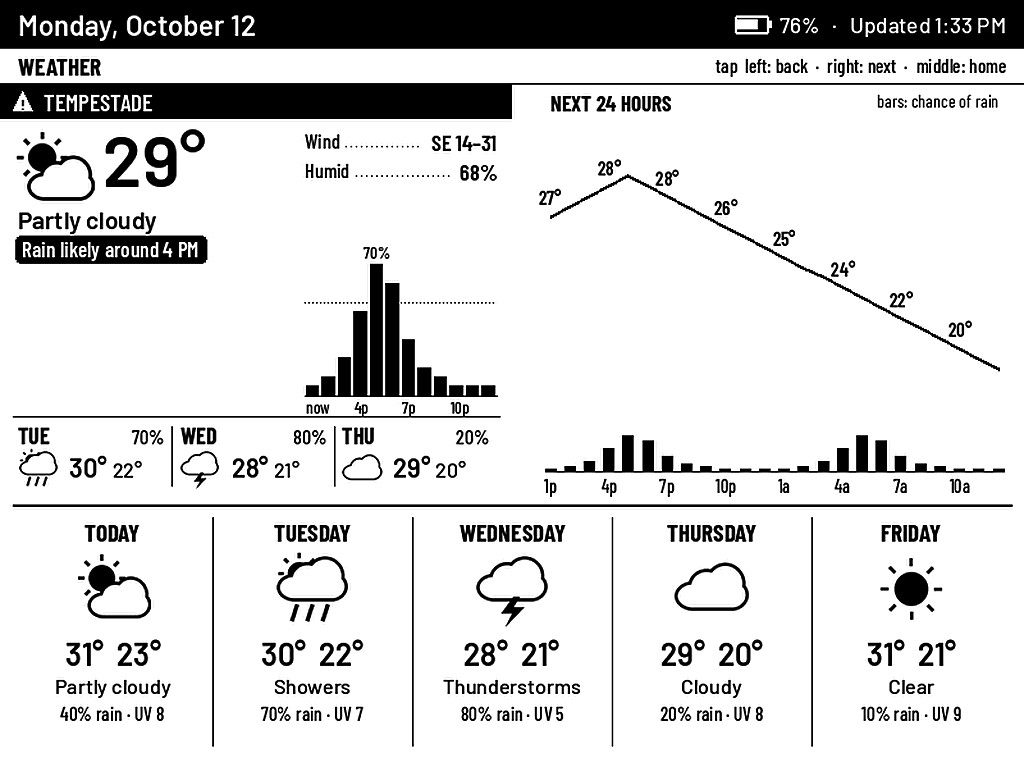
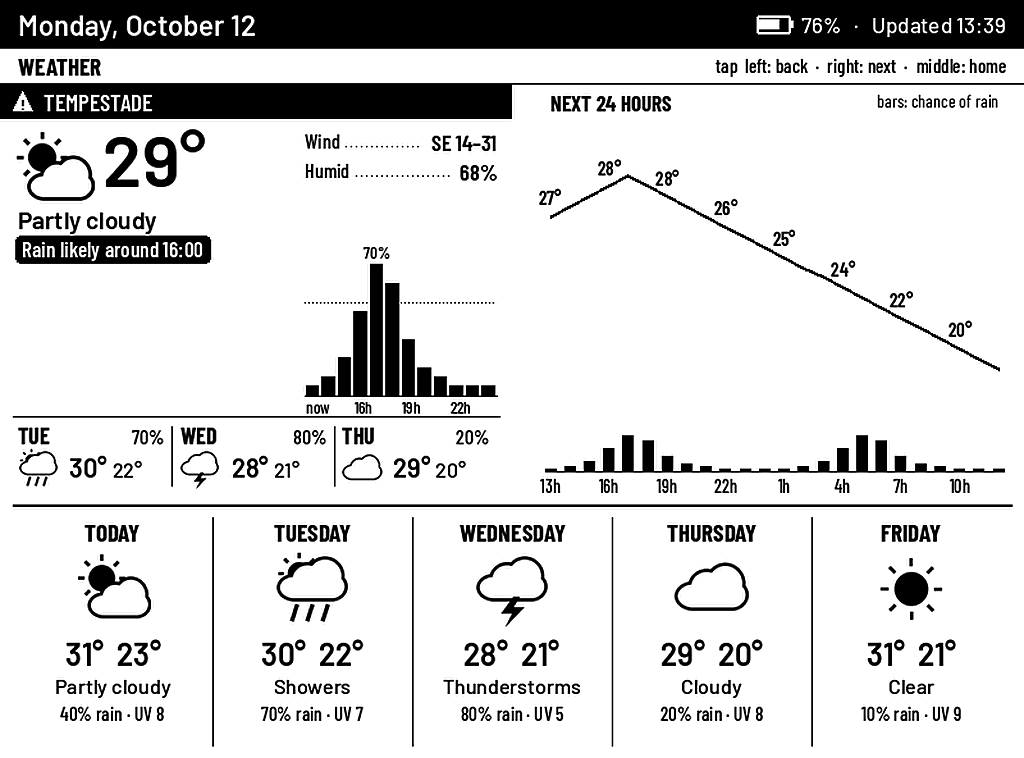
24-hour clock and Brasileirão teams (Bahia, São Paulo, live G4)
Clock
- New "clock" setting (24 | 12), default 24. One switch in sources
  (CLOCK24) drives every time on the board: header, game times, sunrise /
  sunset, rain-chart hour labels ("16h"), INMET alerts and the brief prompt.

Brasileirão
- Built-in teams "bahia" (ESPN 9967) and "sao_paulo" (2026) in league bra.1;
  default teams are now bahia, sao_paulo, g4.
- "g4" expands to the current top g4_size (default 4) of ESPN's live bra.1
  table, registering those clubs on the fly; a club already listed shows once.
- Soccer rows show table position and points ("4º · 61 pts"), draws as "D",
  and fetch both results and fixtures, plus Libertadores, Sul-Americana and
  Copa do Brasil games (labelled with the cup).
- ESPN calls for Brazilian / CONMEBOL soccer ask for lang=pt&region=br, so
  names and team news come from ESPN Brasil.
- Standings try site.api.espn.com then site.web.api.espn.com.

Claude-Session: https://claude.ai/code/session_01GVZJyjXu3HFDda6DCF8SeA

diff --git a/server/web/dashboard.html b/server/web/dashboard.html
@@ -127,6 +127,7 @@ td:first-child{font-weight:600;white-space:nowrap}
         <label>Label<input name="label"></label>
         <label>City (for the brief)<input name="city"></label>
         <label>Units<select name="units"><option value="C">°C, km/h</option><option value="F">°F, mph</option></select></label>
+        <label>Clock<select name="clock"><option value="24">24-hour (19:30)</option><option value="12">12-hour (7:30 PM)</option></select></label>
         <label>Weather alerts<select name="alerts"><option value="auto">Auto (by location)</option>
           <option value="inmet">INMET (Brazil)</option><option value="nws">NWS (US)</option><option value="off">Off</option></select></label>
         <label>IBGE city code (optional)<input name="alert_geocode" placeholder="3550308"></label>
@@ -159,6 +160,7 @@ td:first-child{font-weight:600;white-space:nowrap}
       <div class="checks" id="teams"></div>
       <div class="grid2">
         <label>Show next game if within (days)<input type="number" name="horizon_days" min="1" max="120"></label>
+        <label>Brasileirão "G4" size<input type="number" name="g4_size" min="1" max="8"></label>
       </div>
       <label class="inline" style="margin-top:8px"><input type="checkbox" name="show_idle"> Show teams with nothing scheduled</label>
       <label class="inline"><input type="checkbox" name="sports_logos"> Team logos</label>

diff --git a/server/sources.py b/server/sources.py
@@ -273,9 +273,8 @@ def _parse_inmet(d, lat, lon, geocode="", now=None):
             continue
         sev_pt = str(_pick(a, "severidade", "severity", "nivel") or "").strip()
         event = str(_pick(a, "descricao", "evento", "event", "titulo") or "Aviso").strip()
-        hm24 = lambda t: time.strftime("%H:%M", time.localtime(t))   # pt-BR text, 24h clock
-        until = f" até {hm24(end)}" if end else ""
-        soon = f" a partir de {hm24(start)}" if start and start > now else ""
+        until = f" até {_hm(end)}" if end else ""
+        soon = f" a partir de {_hm(start)}" if start and start > now else ""
         out.append((event, f"INMET: {event} ({sev_pt or 'aviso'}){soon}{until}",
                     INMET_SEV.get(sev_pt.lower(), "Moderate")))
     rank = {"Extreme": 0, "Severe": 1, "Moderate": 2, "Minor": 3}
@@ -302,11 +301,22 @@ def alert_source(cfg):
     return "off"
 
 
+CLOCK24 = True     # 24-hour clock everywhere; app.py sets it from cfg["clock"]
+
+
 def _hm(epoch):
     if not epoch:
         return ""
     t = time.localtime(epoch)
+    if CLOCK24:
+        return f"{t.tm_hour:02d}:{t.tm_min:02d}"
     return f"{t.tm_hour % 12 or 12}:{t.tm_min:02d} {'AM' if t.tm_hour < 12 else 'PM'}"
+
+
+def hour_label(epoch):
+    """Axis label for one hour: '16h' or '4p'."""
+    h = time.localtime(epoch).tm_hour
+    return f"{h}h" if CLOCK24 else f"{h % 12 or 12}{'a' if h < 12 else 'p'}"
 
 
 _weather = Cached(600)
@@ -511,7 +521,16 @@ TEAMS = {
     "gators_fb": ("Gators", "football", "college-football", "57"),
     "gators_bb": ("Gators Hoops", "basketball", "mens-college-basketball", "57"),
     "gators_wbb": ("Gators WBB", "basketball", "womens-college-basketball", "57"),
+    # Brasileirão (ESPN league bra.1). "g4" in cfg["teams"] adds the current top
+    # four from the live table; they get keys like "bra_819" on the fly.
+    "bahia": ("Bahia", "soccer", "bra.1", "9967"),
+    "sao_paulo": ("São Paulo", "soccer", "bra.1", "2026"),
 }
+
+# Cup games for Brazilian clubs live under other ESPN leagues; a team's page
+# under bra.1 only lists league games, so soccer teams also check these.
+SOCCER_CUPS = {"conmebol.libertadores": "Libertadores", "conmebol.sudamericana": "Sul-Americana",
+               "bra.copa_do_brazil": "Copa do Brasil"}
 
 
 @dataclass
@@ -549,11 +568,18 @@ class Game:
     def result(self):
         if self.state != "post" or self.us is None:
             return ""
-        return "W" if self.us > self.them else ("L" if self.us < self.them else "T")
+        return "W" if self.us > self.them else ("L" if self.us < self.them else "D" if self.soccer else "T")
+
+    @property
+    def soccer(self):
+        return TEAMS.get(self.key, ("", ""))[1] == "soccer"
+    key: str = ""
 
 
 def _espn(url, params=None):
     # site.api 403s a browser UA; plain requests UA is fine.
+    if "/soccer/bra." in url or "/soccer/conmebol." in url:
+        params = {**(params or {}), "lang": "pt", "region": "br"}     # ESPN Brasil names and news
     r = requests.get(url, params=params, headers={"User-Agent": UA_BOT}, timeout=10)
     r.raise_for_status()
     return r.json()
@@ -605,7 +631,7 @@ def _parse_event(key, e, record=""):
         ls = t.get("logos") or []
         return (ls[0].get("href") if ls else t.get("logo")) or ""
     start = calendar.timegm(time.strptime(e["date"][:16], "%Y-%m-%dT%H:%M"))
-    return Game(team=label, abbr=(ours.get("team", {}).get("abbreviation") or ""),
+    return Game(key=key, team=label, abbr=(ours.get("team", {}).get("abbreviation") or ""),
                 opp=ot.get("abbreviation") or "TBD", opp_name=ot.get("shortDisplayName") or ot.get("name") or "TBD",
                 home=ours.get("homeAway") == "home", start=start, state=st.get("state", "pre"),
                 detail=st.get("shortDetail", ""), us=score(ours) if st.get("state") != "pre" else None,
@@ -627,9 +653,22 @@ def _fetch_team(key):
     team_logo = next((l["href"] for l in t.get("logos") or [] if "default" in (l.get("rel") or [])),
                      (t.get("logos") or [{}])[0].get("href", ""))
     games = [_parse_event(key, e, rec) for e in t.get("nextEvent") or []]
+    if sport == "soccer":
+        # soccer schedules come in two halves: results, and fixtures=true for
+        # what's next; plus the cups, which sit under their own leagues
+        for lg, cup in [(league, "")] + [(c, n) for c, n in SOCCER_CUPS.items() if c != league]:
+            for fx in (None, {"fixture": "true"}):
+                try:
+                    sched = _espn(f"https://site.api.espn.com/apis/site/v2/sports/soccer/{lg}/teams/{tid}/schedule", fx)
+                except Exception:
+                    continue
+                for e in sched.get("events", []):
+                    g = _parse_event(key, e, rec)
+                    g.note = g.note or cup
+                    games.append(g)
     # Schedule for the last result. Try postseason too: team pages drop the
     # regular-season schedule's playoff games into a separate seasontype.
-    for st in ("", "3"):
+    for st in (("", "3") if sport != "soccer" else ()):
         try:
             sched = _espn(base + "/schedule", {"seasontype": st} if st else None)
             for e in sched.get("events", []):
@@ -735,7 +774,7 @@ class Odds:
         """What the corner shows. Hockey/baseball are moneyline sports."""
         if style == "winpct" and self.win_pct is not None:
             return f"{self.win_pct}% to win"
-        if (style == "moneyline" or sport in ("hockey", "baseball")) and self.ml_us is not None:
+        if (style == "moneyline" or sport in ("hockey", "baseball", "soccer")) and self.ml_us is not None:
             return f"{abbr} {self.ml_us:+d}"
         if self.spread_us is not None:
             return f"{abbr} {self.spread_us:+g}".replace("+0", "PK")
@@ -792,17 +831,112 @@ def attach_odds(key, g: Game):
     g.odds = c.get(fetch_odds)
 
 
+# ------------------------------------------------------------ Brasileirão table
+
+@dataclass
+class Standing:
+    tid: str
+    name: str
+    rank: int
+    points: int
+
+
+def _stat(entry, *names):
+    for s in entry.get("stats") or []:
+        if s.get("name") in names or s.get("type") in names:
+            try:
+                return int(float(s.get("value", s.get("displayValue"))))
+            except (TypeError, ValueError):
+                return None
+    return None
+
+
+def _parse_standings(d):
+    """[Standing] in table order from ESPN's standings JSON (entries may sit
+    at the top level or under children[0])."""
+    groups = [d] + list(d.get("children") or [])
+    entries = []
+    for g in groups:
+        entries = ((g.get("standings") or {}).get("entries") or [])
+        if entries:
+            break
+    out = []
+    for i, e in enumerate(entries):
+        t = e.get("team") or {}
+        if not t.get("id"):
+            continue
+        out.append(Standing(tid=str(t["id"]), name=t.get("shortDisplayName") or t.get("displayName") or "?",
+                            rank=_stat(e, "rank") or i + 1, points=_stat(e, "points") or 0))
+    out.sort(key=lambda s: s.rank)
+    return out
+
+
+def _fetch_standings(league):
+    err = None
+    for host in ("site.api.espn.com", "site.web.api.espn.com"):
+        try:
+            table = _parse_standings(_espn(f"https://{host}/apis/v2/sports/soccer/{league}/standings"))
+            if table:
+                return table
+        except Exception as e:
+            err = e
+    raise err or RuntimeError("empty table")
+
+
+_standings: dict[str, Cached] = {}
+
+
+def standings(league="bra.1", force=False) -> list:
+    c = _standings.setdefault(league, Cached(3600))
+
+    def fetch():
+        return _fetch_standings(league)
+    fetch.__name__ = f"table_{league}"
+    return c.get(fetch, force) or []
+
+
+def _team_key(league, tid, name):
+    """The TEAMS key for an ESPN team, registering one if it's new."""
+    for k, v in TEAMS.items():
+        if v[1] == "soccer" and v[2] == league and v[3] == tid:
+            return k
+    k = f"bra_{tid}"
+    TEAMS[k] = (name, "soccer", league, tid)
+    return k
+
+
+def team_keys(cfg, force=False):
+    """cfg["teams"] with "g4" expanded to the current top of the table."""
+    out = []
+    for key in cfg.get("teams", []):
+        if key == "g4":
+            try:
+                for s in standings("bra.1", force)[:max(1, int(cfg.get("g4_size", 4)))]:
+                    out.append(_team_key("bra.1", s.tid, s.name))
+            except Exception as e:
+                print(f"[table] {e}", flush=True)
+        elif key in TEAMS:
+            out.append(key)
+    return list(dict.fromkeys(out))      # São Paulo in the G4 shows once
+
+
 def sports(cfg, force=False):
     """[TeamRow] ordered live -> fresh results -> soonest next game, plus the
     keys of teams playing right now (the caller refreshes faster then)."""
     now = time.time()
     rows, live = [], []
     horizon = cfg.get("horizon_days", 21) * 86400
-    for key in cfg.get("teams", []):
-        if key not in TEAMS:
-            continue
+    table = {}
+    if any(TEAMS.get(k, ("", "", ""))[2] == "bra.1" for k in cfg.get("teams", [])) or "g4" in cfg.get("teams", []):
+        try:
+            table = {s.tid: s for s in standings("bra.1", force)}
+        except Exception as e:
+            print(f"[table] {e}", flush=True)
+    for key in team_keys(cfg, force):
         games = team_games(key, fast=key in _live_keys, force=force)
-        row = TeamRow(key=key, label=TEAMS[key][0], record=games[0].record if games else "",
+        st = table.get(TEAMS[key][3]) if TEAMS[key][2] == "bra.1" else None
+        row = TeamRow(key=key, label=TEAMS[key][0],
+                      record=f"{st.rank}º · {st.points} pts" if st else (games[0].record if games else ""),
                       logo=next((g.our_logo for g in games if g.our_logo), ""))
         row.live = next((g for g in games if g.state == "in"), None)
         done = [g for g in games if g.state == "post"]
@@ -840,6 +974,8 @@ _live_keys: set = set()
 
 def sports_status():
     out = {k: c.status() for k, c in _teams.items()}
+    for lg, c in _standings.items():
+        out["table_" + lg] = c.status()
     if _odds:
         errs = [c.error for c in _odds.values() if c.error]
         ages = [c.status()["age_s"] for c in _odds.values() if c.at]
@@ -880,11 +1016,11 @@ def brief(cfg, heads, wx, games, force=False) -> str:
                 parts.append(f"{r.label} {r.last.result} {r.last.us}-{r.last.them} vs {r.last.opp_name}")
             if r.next:
                 ln = f" ({r.next.odds.details}, O/U {r.next.odds.total:g})" if r.next.odds and r.next.odds.total else ""
-                parts.append(f"{r.label} next vs {r.next.opp_name} {time.strftime('%a %I:%M %p', time.localtime(r.next.start))}{ln}")
+                parts.append(f"{r.label} next vs {r.next.opp_name} {time.strftime('%a ' + ('%H:%M' if CLOCK24 else '%I:%M %p'), time.localtime(r.next.start))}{ln}")
         g = "; ".join(parts)
         prompt = (
             f"You write the one-line briefing on a small e-paper kitchen display in {city}. "
-            f"It is {time.strftime('%A %I:%M %p')}. Using ONLY the facts below, write ONE plain sentence, "
+            f"It is {time.strftime('%A ' + ('%H:%M' if CLOCK24 else '%I:%M %p'))}. Using ONLY the facts below, write ONE plain sentence, "
             "max 115 characters, no emoji, no quotes, no preamble. Lead with what matters most today: "
             "severe weather beats everything; then a local team playing today/tonight; otherwise the most "
             "consequential news story. Don't restate routine weather unless rain or heat is notable.\n\n"

diff --git a/server/app.py b/server/app.py
@@ -54,6 +54,7 @@ DEFAULTS = {
     "city": "Tampa",             # named in the Claude brief's prompt
     "lat": 27.9506, "lon": -82.4572,
     "units": "C",                # C = °C and km/h; F = °F and mph
+    "clock": "24",               # 24 | 12
     "alerts": "auto",            # auto (NWS in the US, INMET in Brazil) | nws | inmet | off
     "alert_geocode": "",         # optional IBGE city code, for INMET alerts without a polygon
     "slots": ["weather", "news", "sports", "sky"],
@@ -68,7 +69,8 @@ DEFAULTS = {
     "max_age_h": 18,
     "news_pages": 4,
     "tickers": ["^GSPC", "^DJI", "^IXIC", "SOXL"],
-    "teams": ["bucs", "lightning", "rays", "gators_fb", "gators_bb"],
+    "teams": ["bahia", "sao_paulo", "g4"],   # "g4" = the Brasileirão's current top four
+    "g4_size": 4,                # how many from the top of the table "g4" brings in
     # your own ESPN teams: {"key": ["Label", "sport", "league", "espn team id or abbr"]},
     # e.g. {"bears": ["Bears", "football", "nfl", "chi"]}; then add "bears" to teams
     "custom_teams": {},
@@ -117,6 +119,7 @@ def save_json(path, obj):
 
 
 cfg = {**DEFAULTS, **load_json(CONFIG_PATH, {})}
+S.CLOCK24 = cfg.get("clock") != "12"
 S.TEAMS.update({k: tuple(v) for k, v in cfg.get("custom_teams", {}).items()})
 
 
@@ -634,7 +637,8 @@ class H(BaseHTTPRequestHandler):
             "events": events.status if events else None,
         }
         st["feeds"] = {k: v[0] for k, v in S.WSJ_FEEDS.items()}
-        st["teams"] = {k: v[0] for k, v in S.TEAMS.items()}
+        st["teams"] = {"g4": "Brasileirão G4 (live table)",
+                       **{k: v[0] for k, v in S.TEAMS.items() if not k.startswith("bra_")}}
         st["panels"] = list(R.PANELS)
         st["notes_available"] = bool(nb is not None and notes_db() is not None)
         return st
@@ -669,6 +673,7 @@ class H(BaseHTTPRequestHandler):
         rewx = moved or any(new[k] != cfg[k] for k in ("units", "alerts", "alert_geocode"))
         cfg.clear()
         cfg.update(new)
+        S.CLOCK24 = cfg.get("clock") != "12"
         S.TEAMS.update({k: tuple(v) for k, v in cfg.get("custom_teams", {}).items()})
         save_json(CONFIG_PATH, {k: v for k, v in cfg.items() if DEFAULTS.get(k) != v})
         if moved:

diff --git a/server/render.py b/server/render.py
@@ -20,6 +20,8 @@ from dataclasses import dataclass, field
 
 from PIL import Image, ImageChops, ImageDraw, ImageFont
 
+import sources   # for the clock setting (sources.CLOCK24); render still never fetches
+
 W, H = 800, 480
 HEAD_H = 38
 STRIP_H = 28
@@ -261,12 +263,14 @@ def compass_arrow(c, cx, cy, r, bearing):
 
 def hm(ts, ampm=True):
     t = time.localtime(ts)
+    if sources.CLOCK24:
+        return f"{t.tm_hour:02d}:{t.tm_min:02d}"
     s = f"{t.tm_hour % 12 or 12}:{t.tm_min:02d}"
     return s + (" AM" if t.tm_hour < 12 else " PM") if ampm else s
 
 
 def when(ts, tbd=False):
-    """Friendly game time: 'Tonight 7:00', 'Tomorrow 1:00 PM', 'Sun 1:00 PM', 'Oct 12'."""
+    """Friendly game time: 'Tonight 19:00', 'Tomorrow 13:00', 'Sun 13:00', 'Oct 12' (or 12h)."""
     now = time.localtime()
     t = time.localtime(ts)
     days = (time.mktime(t[:3] + (0, 0, 0, 0, 0, -1)) - time.mktime(now[:3] + (0, 0, 0, 0, 0, -1))) / 86400
@@ -453,8 +457,7 @@ def _rain_bars(d, hourly, now, x0, x1, y0, y1):
         if hgt >= 1:
             d.rectangle((bx + 1, by1 - hgt, bx + cw - 2, by1), fill=INK)
         if i % 3 == 0:
-            lt = time.localtime(ts)
-            lab = "now" if i == 0 else f"{lt.tm_hour % 12 or 12}{'a' if lt.tm_hour < 12 else 'p'}"
+            lab = "now" if i == 0 else sources.hour_label(ts)
             text(d, (bx + 1, by1 + 1), lab, fl)
     pk = hrs[peak][2]
     if pk >= 10:
@@ -936,8 +939,7 @@ def detail_weather(ctx, size):
         for i in range(0, n, 3):
             ts, t, pop, code = hrs[i]
             text(d, (X(i), Y(t) - 6), f"{t:.0f}°", F("csb", 15), anchor="md")
-            lt = time.localtime(ts)
-            text(d, (X(i), y1 + 3), f"{lt.tm_hour % 12 or 12}{'a' if lt.tm_hour < 12 else 'p'}", F("cm", 14), anchor="ma")
+            text(d, (X(i), y1 + 3), sources.hour_label(ts), F("cm", 14), anchor="ma")
         text(d, (x1, 4), "bars: chance of rain", F("cr", 14), anchor="ra")
     # 5-day strip
     days = wx.days[:5]

diff --git a/server/kindle_cases.py b/server/kindle_cases.py
@@ -11,13 +11,13 @@ CFG = {"units": "C", "slots": ["weather", "news", "sports", "sky"], "radar_nm": 
 lt = time.localtime(now)
 day = lambda i: time.strftime("%Y-%m-%d", time.localtime(now + 86400 * i))
 wx = S.Weather(temp=29, feels=33, code=2, is_day=lt.tm_hour in range(7, 19), humidity=68, wind=14, wind_dir=120, gust=31,
-               days=[S.Day(day(i), hi, lo, code, pop, "7:24 AM", "7:02 PM", uv)
+               days=[S.Day(day(i), hi, lo, code, pop, "05:41", "18:12", uv)
                      for i, (hi, lo, code, pop, uv) in enumerate([(31, 23, 2, 40, 8), (30, 22, 80, 70, 7),
                                                                    (28, 21, 95, 80, 5), (29, 20, 3, 20, 8),
                                                                    (31, 21, 0, 10, 9)])],
                hourly=[(now + 3600 * i, 29 - abs(i - 4) * 0.5, [5, 10, 20, 45, 70, 60, 30, 15, 10, 5, 5, 5][i % 12], 2)
                        for i in range(24)],
-               rain_note="Rain likely around 4 PM",
+               rain_note="Rain likely around 16:00",
                alerts=[("Tempestade", "INMET: Tempestade (Perigo) até 21:00", "Severe")])
 heads = [S.Headline(t, "world", now - 600 * i) for i, t in enumerate([
     "Fed officials signal patience on further rate cuts as inflation cools unevenly",

diff --git a/README.md b/README.md
@@ -72,7 +72,7 @@ Open `http://127.0.0.1:8740/?k=<QUAD_ADMIN>` to set your location, units, feeds,
 
 **Preview without hardware:** `python cases.py` renders every screen with live data to `case_*.png`.
 
-**Your teams:** the built-in keys are the Tampa ones (`bucs`, `lightning`, `rays`, `gators_fb`, `gators_bb`). Add your own in `config.json` with ESPN's sport, league and team id or abbreviation:
+**Your teams:** this edition defaults to the Brasileirão: `bahia`, `sao_paulo` and `g4`, which pulls in whoever is in the top four of ESPN's live `bra.1` table (set `g4_size` to change how many). Soccer teams show their table position and points, and their Libertadores, Sul-Americana and Copa do Brasil games too. The original Tampa keys (`bucs`, `lightning`, `rays`, `gators_fb`, `gators_bb`) are still there. Add your own in `config.json` with ESPN's sport, league and team id or abbreviation, e.g. `"flamengo": ["Flamengo", "soccer", "bra.1", "819"]` (the id is in the club's espn.com.br URL):
 
 ```json
 {
@@ -101,7 +101,7 @@ On first boot the board opens a Wi-Fi setup portal named `QuadBoard-XXXX`. Join 
 ## Notes
 
 - Times use the server's `TZ` (defaults to `America/Sao_Paulo`). Market hours are always NYSE's.
-- Units default to °C and km/h; switch to °F / mph on the dashboard.
+- Units default to °C and km/h, and the clock to 24-hour; both switch on the dashboard.
 - The notes feature reads a separate "note box" project's database and is off unless `QUAD_NOTES_DB` is set.
 - Team logos and airline logos are downloaded at runtime and cached in `server/cache/`. None are shipped in this repo.
 
